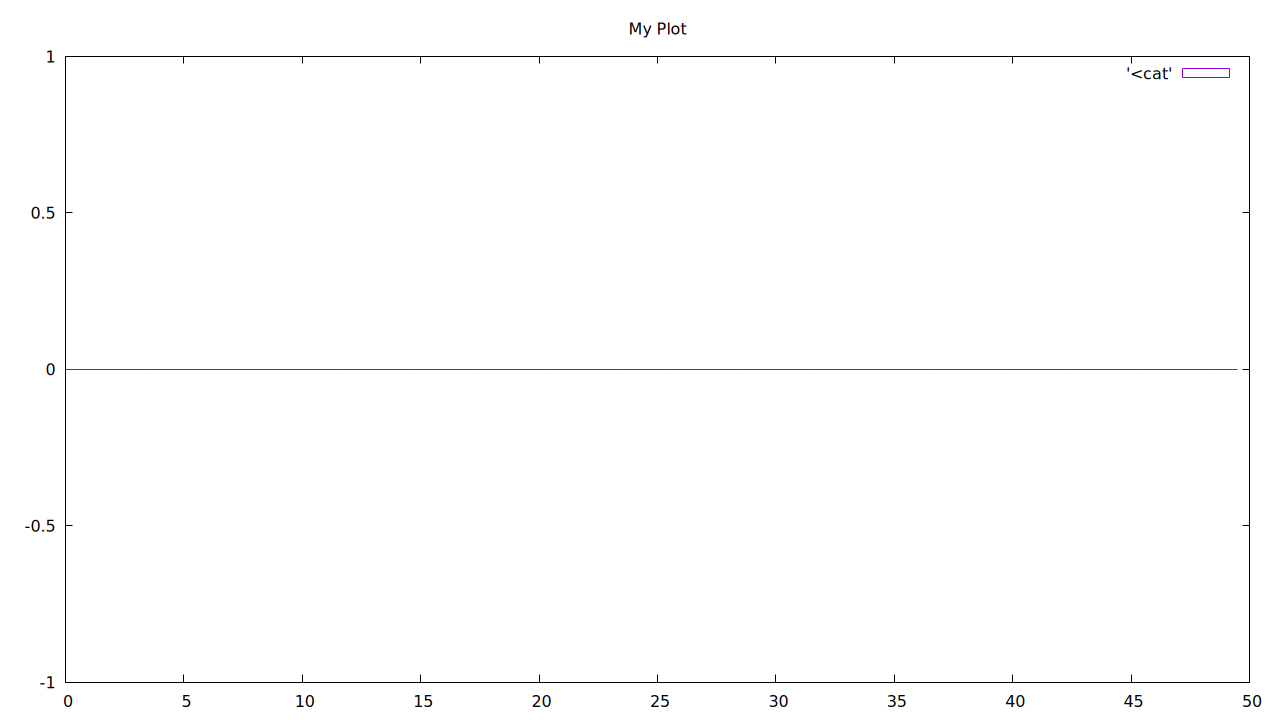
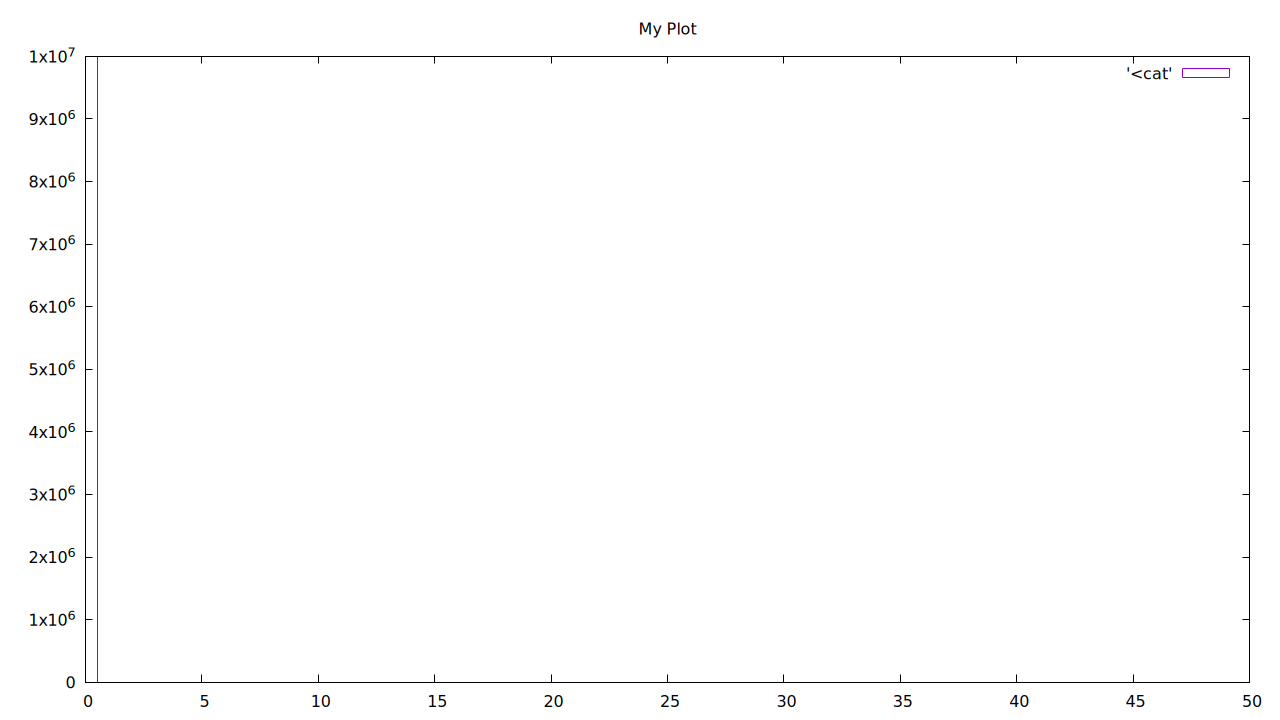
forsatt hjemme

diff --git a/Windows_Versjon/taskb.c b/Windows_Versjon/taskb.c
@@ -138,22 +138,24 @@ int ns_max = 50;
 int histogram[ns_max];
 memset(histogram, 0, sizeof(histogram));
 
-
-volatile uint64_t rdtsc_value;
-
+/*
 for(int i = 0; i < samples; i++){
-    rdtsc_value = rdtsc();
-}
 
-clock_gettime(CLOCK_MONOTONIC, &end);
+    uint64_t t1 = rdtsc();
+    uint64_t t2 = rdtsc();
 
+    uint64_t ticks = t2 - t1;
 
-long long ns = (end.tv_sec - start.tv_sec) * 1000000000LL + (end.tv_nsec - start.tv_nsec);
+    uint64_t hz = 3686399000 ;
 
-    if(ns >= 0 && ns < ns_max){
+    uint64_t ns =
+        ticks * 1000000000LL / hz;
+
+    if(ns < ns_max){
         histogram[ns]++;
     }
-
+}
+*/
 
 
 /* KLOKKE2
@@ -171,25 +173,25 @@ for(int i = 0; i < samples; i++){
 }
 */
 
-/* KLOKKE3
+    // KLOKKE3
 
-for (int i = 0; i < samples; i++) {
-        times_value = times(&usage);
-    }
+long ticks_per_second = sysconf(_SC_CLK_TCK);
 
-    clock_gettime(CLOCK_MONOTONIC, &end);
-    clock_t time1 = times(&usage1);
-    clock_t time2 = times(&usage2);
+for(int i = 0; i < samples; i++){
 
-     long long ns =
-        (end.tv_sec - start.tv_sec) * 1000000000LL
-        + (end.tv_nsec - start.tv_nsec);
+    clock_t t1 = times(&usage1);
+    clock_t t2 = times(&usage2);
+
+    long long ns =
+        (long long)(t2 - t1) * 1000000000LL
+        / ticks_per_second;
 
     if(ns >= 0 && ns < ns_max){
         histogram[ns]++;
     }
+}
 
-*/
+
 
 
 for(int i = 0; i < ns_max; i++){
